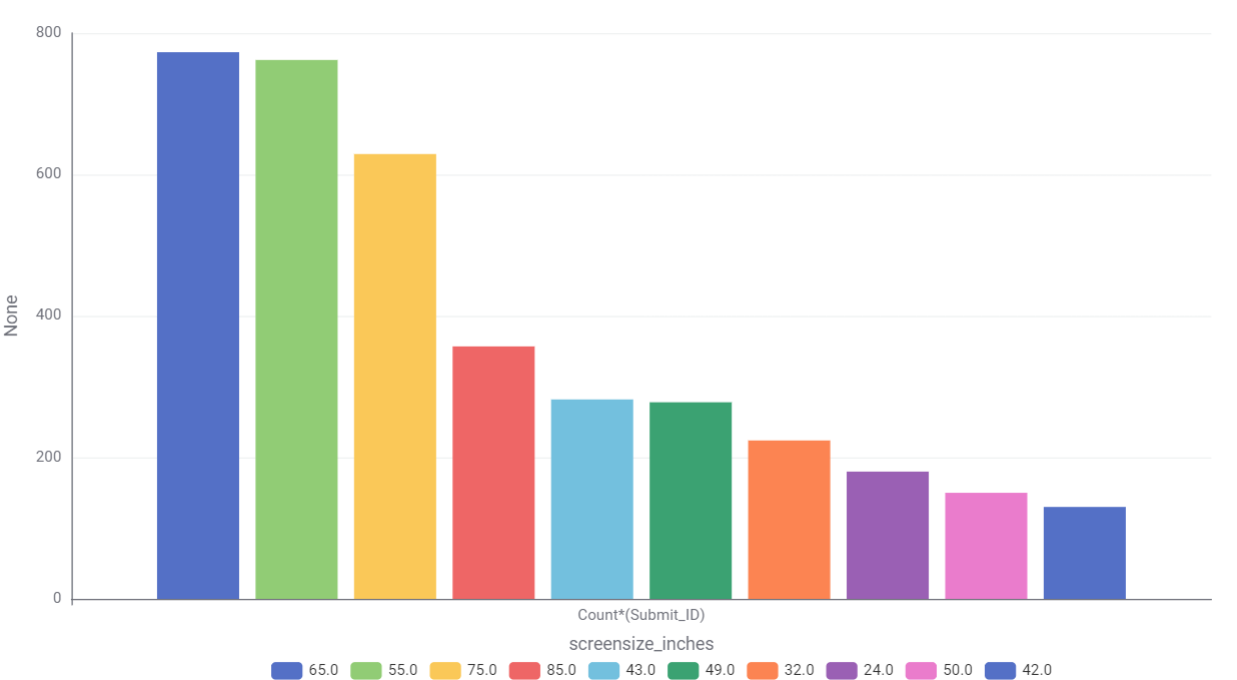
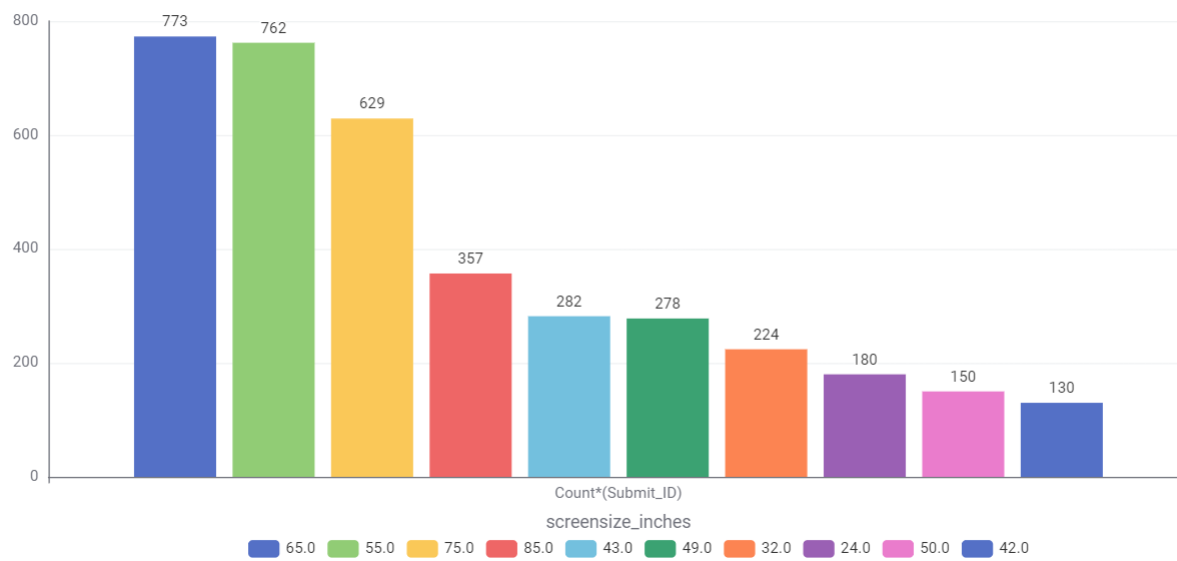
-

Changed region(s): [[0.0, 0.0303, 1.0, 1.0]]

diff --git a/televisions.html b/televisions.html
@@ -54,17 +54,17 @@
 		</div>
 		<p class="data-note">Most common TV technology in Australia is LCD(LED).</p>
 
-		<h3>Chart 2: What screen sizes are most frequent?</h3>
+		<h3>Chart 2: What screen sizes are most frequently bought?</h3>
 		<div class="chart-container">
-			<img src="images/chart2.png" width="700" height="400" alt="Chart showing the most common TV technologies">
+			<img src="images/chart2.png" width="700" height="400" alt="Chart showing the most frequently bought screen size">
 		</div>
-		<p class="data-note">Most common TV technology in Australia is LCD(LED).</p>
+		<p class="data-note">65-inch TVs are the most common.</p>
 
-		<h3>Chart 3: Which brands dominate the market?</h3>
+		<h3>Chart 3: Which brands have the largest number of models?</h3>
 		<div class="chart-container">
 			<img src="images/chart3.png" width="700" height="400" alt="Chart showing the most common TV technologies">
 		</div>
-		<p class="data-note">Most common TV technology in Australia is LCD(LED).</p>
+		<p class="data-note">KOGAN, LG, and Samsung Electronics have the largest number of models on the Australian market, respectively.</p>
 
 		<h3>Chart 4: Which screen type uses the least power?</h3>
 		<div class="chart-container">
